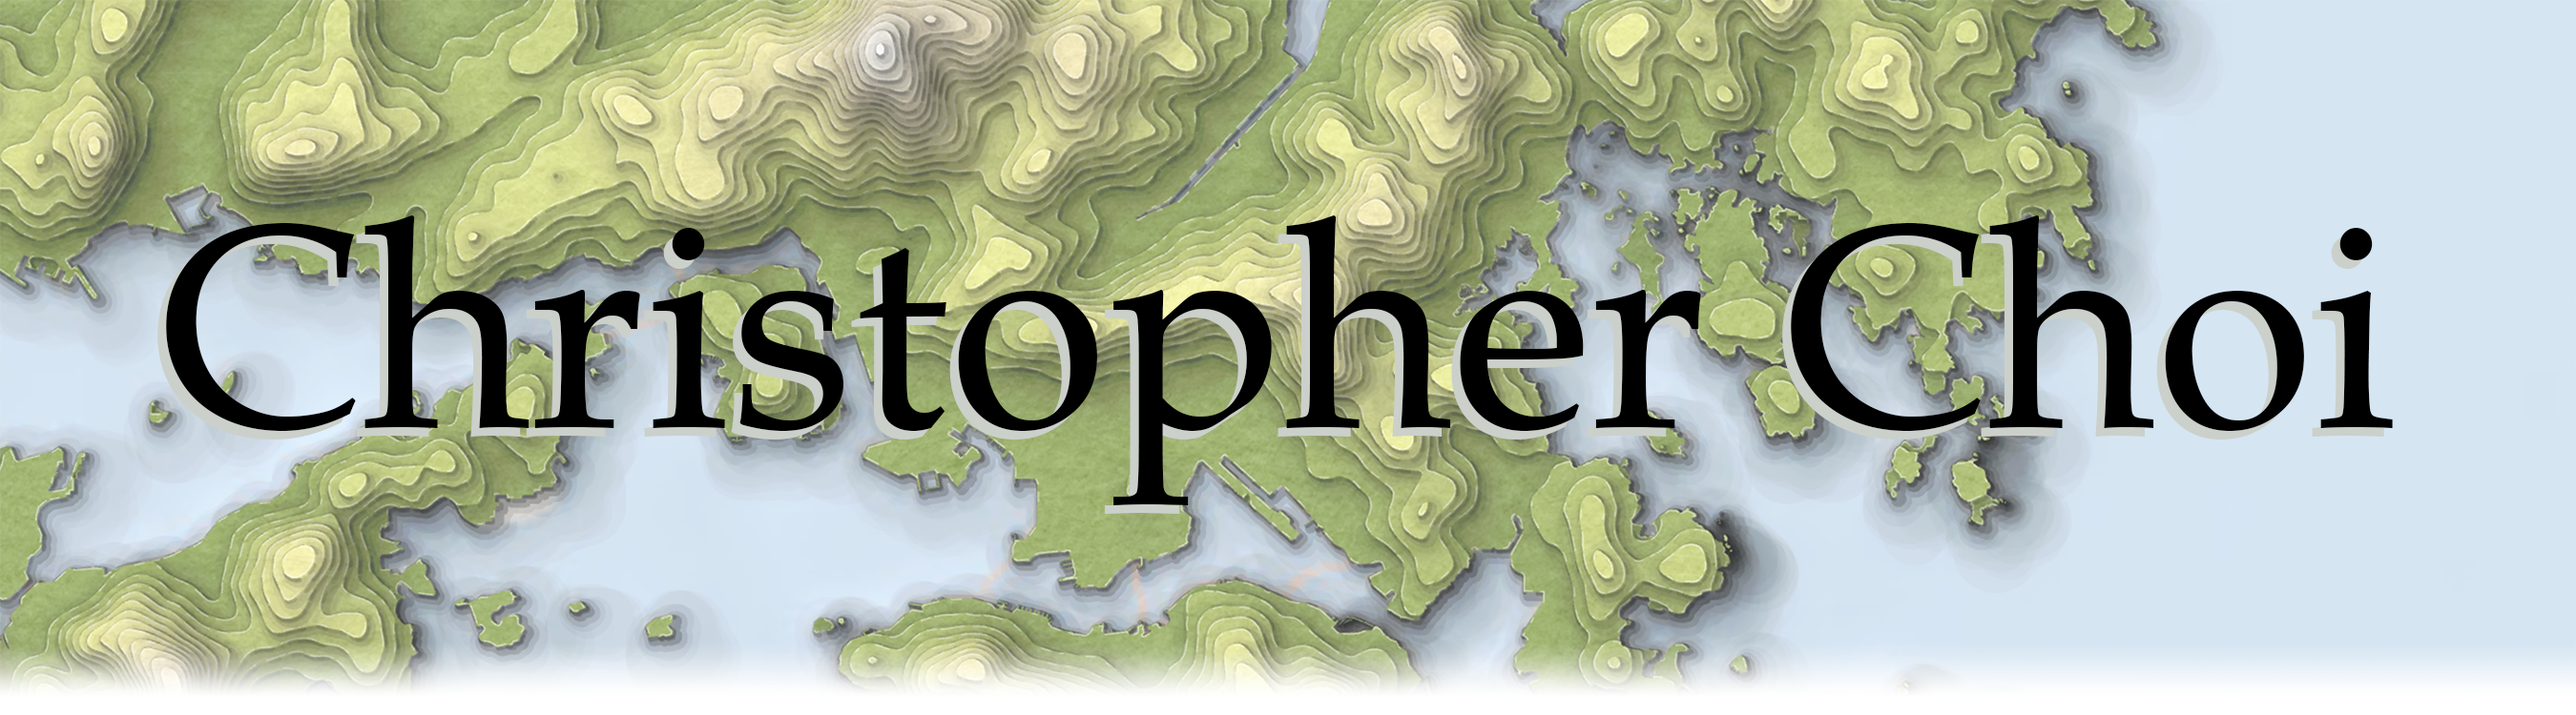
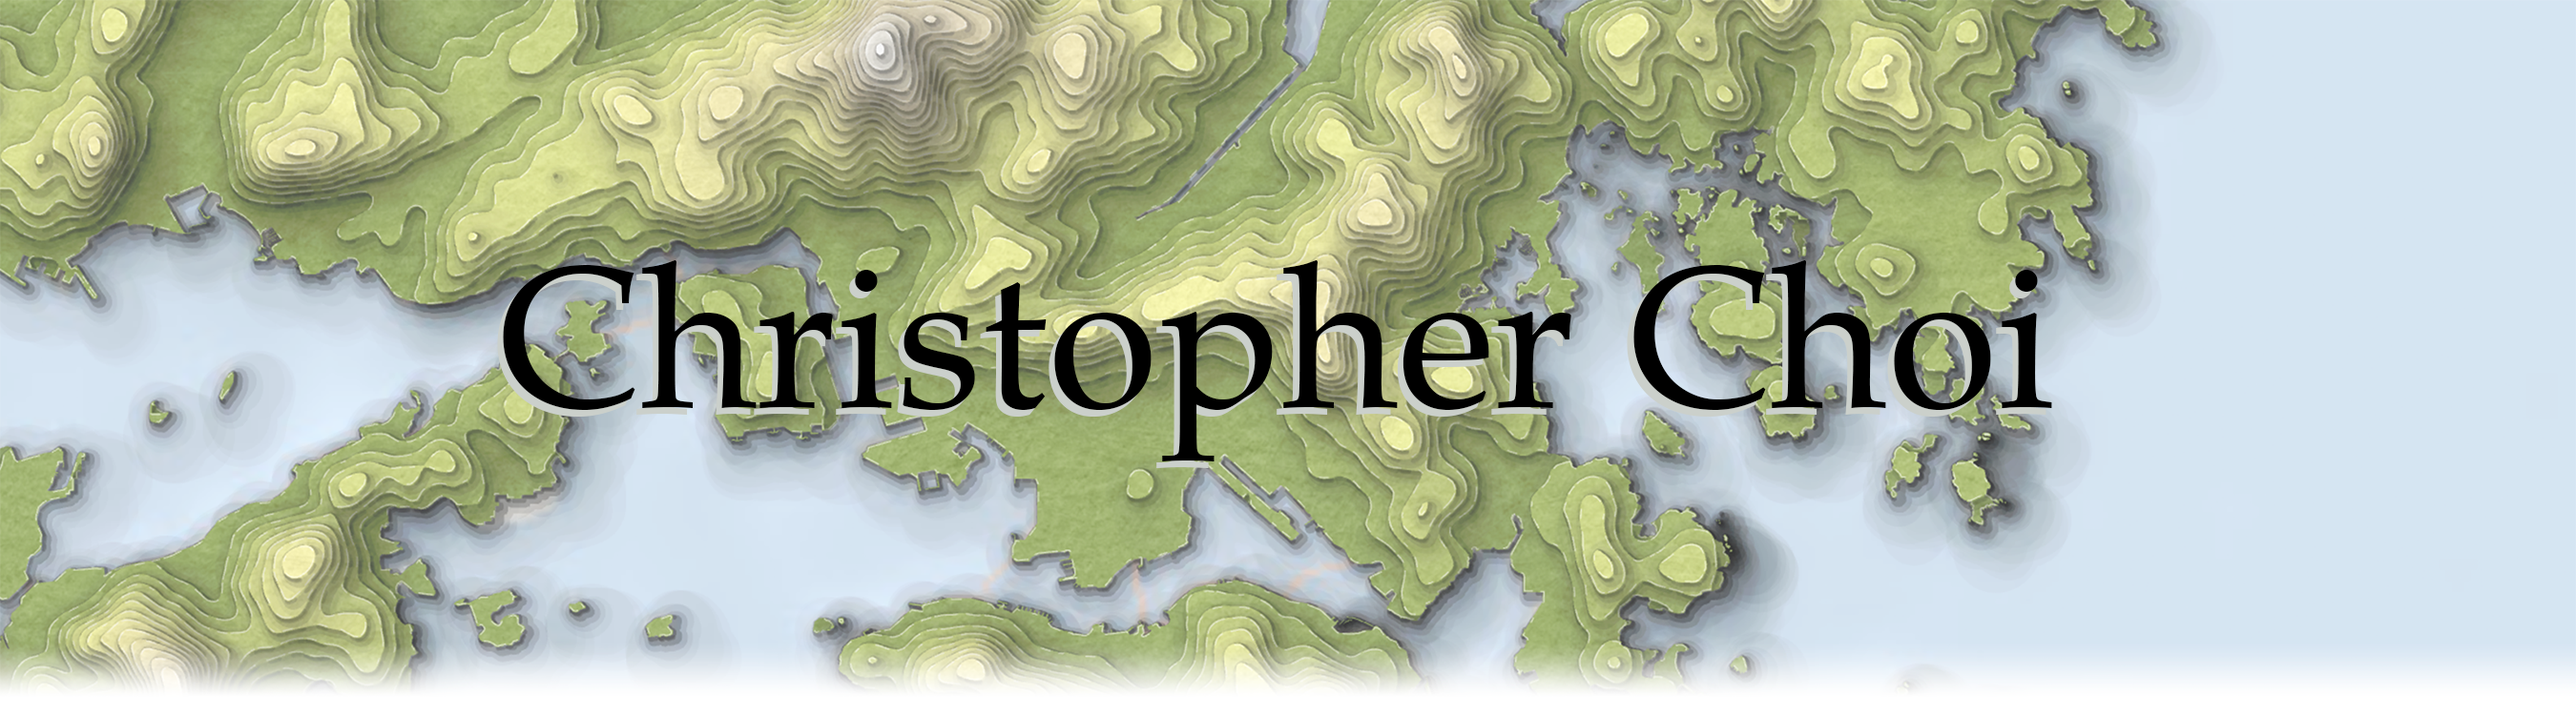
07/03/2020

Changed region(s): [[0.0622, 0.3067, 0.9333, 0.736], [0.9022, 0.3067, 0.9333, 0.368]]

diff --git a/index.html b/index.html
@@ -1,5 +1,5 @@
 ---
-layout: splash
+layout: single
 author_profile: true
 header:
   image: "/images/BG_Home.png"
